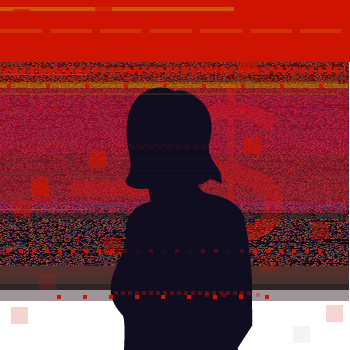
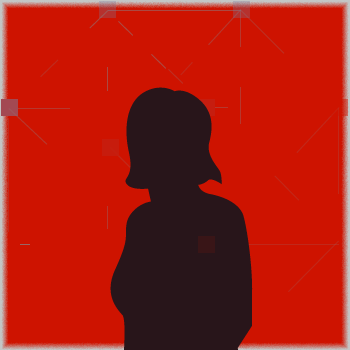
fix intro animation

diff --git a/be/proj/static/js/directives.js b/be/proj/static/js/directives.js
@@ -3,7 +3,7 @@ app.directive("scroll", function ($window) {
 
         $scope.amountToScroll = 2700;
 
-        var OFFSET = 100;
+        var OFFSET = 120;
         var MAX_RANGES = 10;
         var RANGE_COLORS = {
             6: "#281519",
@@ -32,7 +32,7 @@ app.directive("scroll", function ($window) {
                 next = cur += OFFSET;
                 $scope.ranges.push({
                     'yScroll': cur,
-                    'yScrollEnd': next*1.5,
+                    'yScrollEnd': next*2,
                     'num': i
                 });
                 cur = next;

diff --git a/be/proj/templates/proj/splash.html b/be/proj/templates/proj/splash.html
@@ -13,7 +13,7 @@
     ng-class="{mainstate: yLoc >= amountToScroll}">
     <div id="scrollthing" ng-style="scrollThingStyle" style="max-height: 2000px">
     </div>
-    <section id="splash" class="splash" ng-class="{hidden: yLoc > 0}">
+    <section id="splash" class="splash" ng-class="{hidden: yLoc > 5}">
       <div class="splash-text">
         <h1>Organize, Resist, Reimagine</h1>
       </div>
